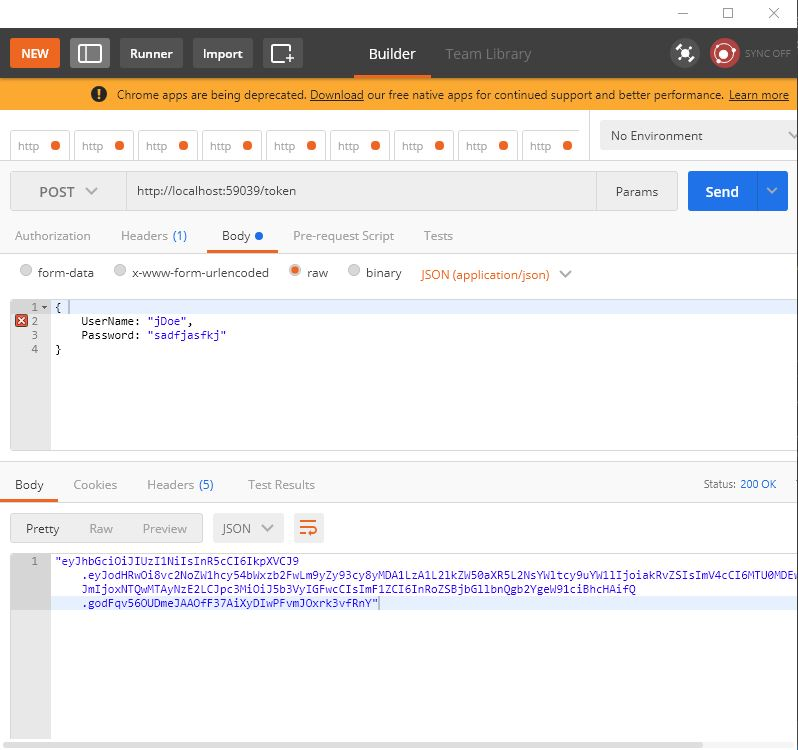
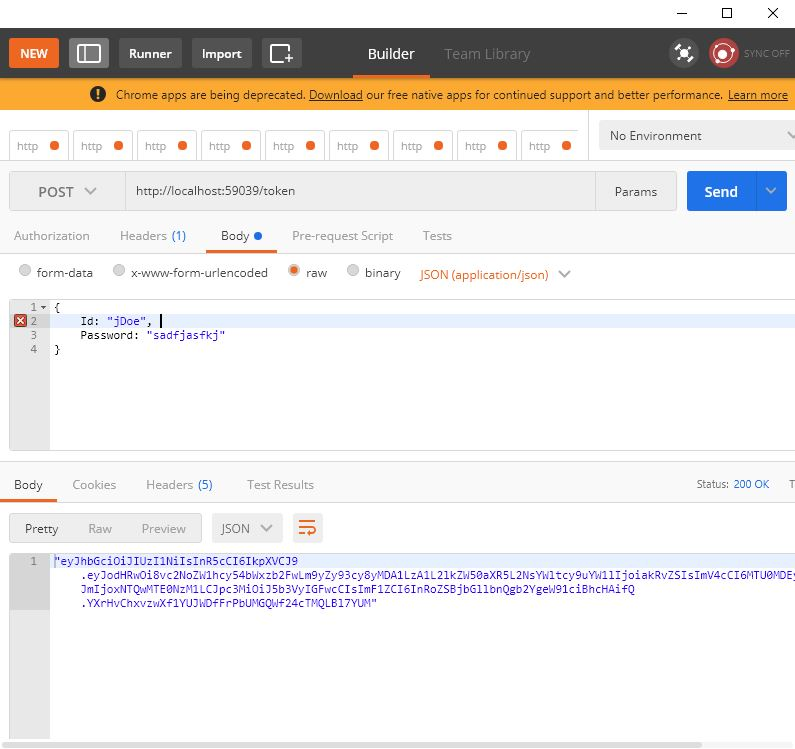
updated readme and image.

diff --git a/README.md b/README.md
@@ -95,7 +95,9 @@ After this validation, the Jwt token is issued by the **TokenController**.
 }
 ```
 
-The **TokenContoller** has a POST Method which you can call with a Username and Password.
+The **TokenContoller** has a POST Method which you can call with a Id and Password.
+
+The Id has to match the specified **IdType**.
 
 The POST in **Postman** is like below:
 
